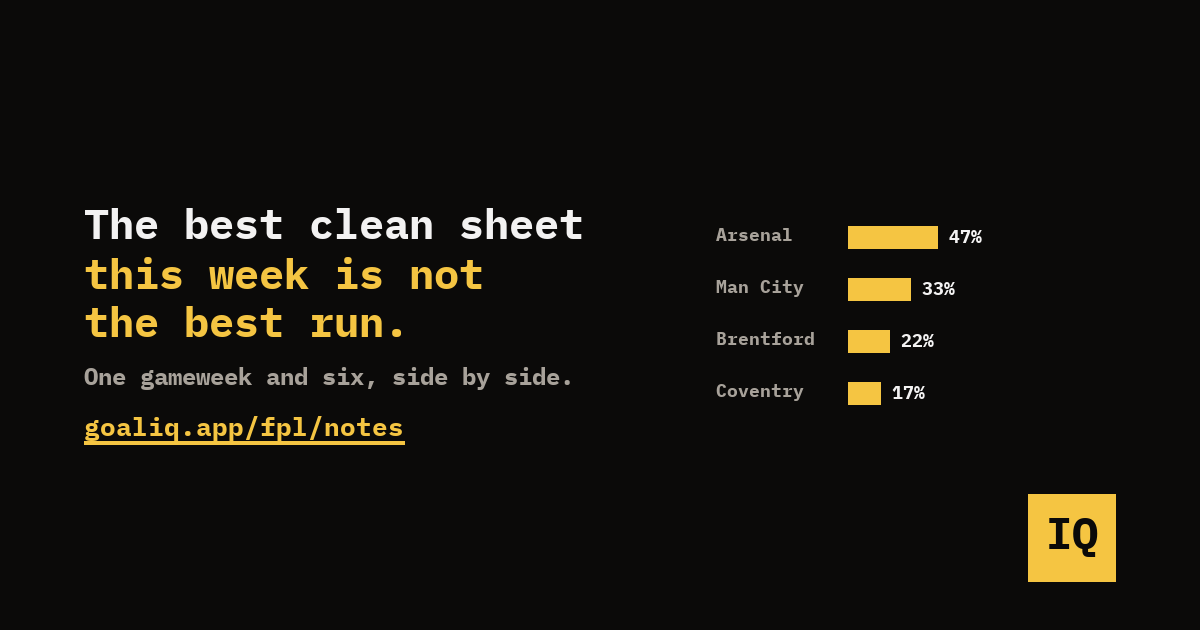
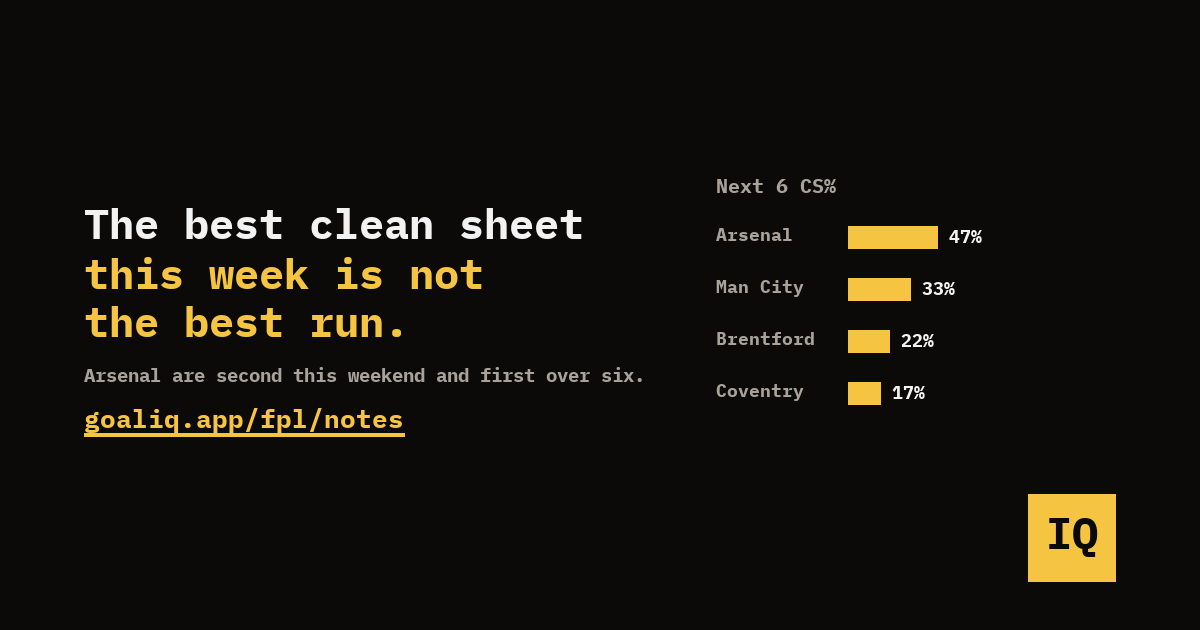
note: gate round 1 blocked two of my own factual errors (City's easiest fixture is Sunderland at home 48%, not Coventry; the lowest number on the page is Ipswich 2%, not Coventry 4%); gate wording applied, card says which column the bars are

Changed region(s): [[0.0617, 0.573, 0.5242, 0.7238], [0.5858, 0.2714, 0.7092, 0.3016]]

diff --git a/fpl/notes.html b/fpl/notes.html
@@ -10,7 +10,7 @@
 <meta property="og:title" content="FPL notes from the model | GoalIQ">
 <meta property="og:description" content="Short gameweek notes where every number comes from our own match model and every one of them is on a free page you can open. Latest: The best clean sheet this week is not the best run">
 <meta property="og:url" content="https://goaliq.app/fpl/notes">
-<meta property="og:image" content="https://goaliq.app/assets/brand/og/notes-1200x630.png?v=a92300a0">
+<meta property="og:image" content="https://goaliq.app/assets/brand/og/notes-1200x630.png?v=30393d27">
 <meta property="og:image:width" content="1200">
 <meta property="og:image:height" content="630">
 <meta property="og:site_name" content="GoalIQ">
@@ -18,7 +18,7 @@
 <meta name="twitter:site" content="@goaliqapp">
 <meta name="twitter:title" content="FPL notes from the model | GoalIQ">
 <meta name="twitter:description" content="Short gameweek notes where every number comes from our own match model and every one of them is on a free page you can open. Latest: The best clean sheet this week is not the best run">
-<meta name="twitter:image" content="https://goaliq.app/assets/brand/og/notes-1200x630.png?v=a92300a0">
+<meta name="twitter:image" content="https://goaliq.app/assets/brand/og/notes-1200x630.png?v=30393d27">
 <link rel="icon" href="/favicon.ico" sizes="any">
 <link rel="icon" type="image/png" sizes="32x32" href="/assets/brand/goaliq-favicon-32.png">
 <link rel="icon" type="image/png" sizes="48x48" href="/assets/brand/goaliq-favicon-48.png">
@@ -450,7 +450,7 @@ td .m-sub.is-caveat{display:block;font-size:11px;font-weight:400;opacity:.72;
 </div>
 </header>
 <main class="wrap content">
-<h2 id="the-best-clean-sheet-this-week-is-not-the-best-run"><a href="/fpl/note/the-best-clean-sheet-this-week-is-not-the-best-run">The best clean sheet this week is not the best run</a></h2><p class="note">2026-09-03</p><div class="note-body"><p>Gameweek 3 has a tidy top three for clean sheets. Manchester City are on 41.3% at home to Coventry, Arsenal 38.8% against Chelsea, Brentford 37.7% against Sunderland. If you are buying a defender for one weekend, that is the order.</p><p>There is a new column beside those numbers and it puts them in a different order. Averaged across the six gameweeks in the grid below, Arsenal are on 47%, the best run on the page. Brentford are on 22%. Same model, same defences, two questions that happen to have different answers.</p><p>City go from 41.3% this week to 33% across the run, and the row tells you why: Coventry at home is the friendliest fixture in their window, not a typical one. A single number was never going to say that.</p><div class="tblwrap"><table class="note-tbl"><thead><tr><th>Club</th><th>GW3 clean sheet</th><th>Next 6 average</th></tr></thead><tbody><tr><td>Arsenal</td><td>38.8%</td><td>47%</td></tr><tr><td>Man City</td><td>41.3%</td><td>33%</td></tr><tr><td>Brentford</td><td>37.7%</td><td>22%</td></tr><tr><td>Coventry</td><td>4%</td><td>17%</td></tr></tbody></table></div><p>Coventry are the mirror image. 4% away at City is the lowest figure on the page, and their run averages 17%. That is not a good six weeks by any measure. It is just not this one, and if you were writing them off on the strength of Saturday you were reading the wrong column.</p><p>One caveat we would rather say than have you find. Promoted sides carry a rating fitted on two Premier League matches so far, so their numbers move further with each result than anyone else&#x27;s, and the table marks those rows where they sit.</p></div><p><a href="https://goaliq.app/fpl">The clean sheet table, every club and both columns</a>.</p><div class="share"><span>Share</span><a href="https://twitter.com/intent/tweet?text=The%20best%20clean%20sheet%20this%20week%20is%20not%20the%20best%20run%0A%0Ahttps%3A//goaliq.app/fpl/notes%23the-best-clean-sheet-this-week-is-not-the-best-run" rel="noopener nofollow" target="_blank">X</a><a href="https://bsky.app/intent/compose?text=The%20best%20clean%20sheet%20this%20week%20is%20not%20the%20best%20run%0A%0Ahttps%3A//goaliq.app/fpl/notes%23the-best-clean-sheet-this-week-is-not-the-best-run" rel="noopener nofollow" target="_blank">Bluesky</a><a href="https://goaliq.app/fpl/notes#the-best-clean-sheet-this-week-is-not-the-best-run">Link</a></div><h2 id="arsenal-defence-price"><a href="/fpl/note/arsenal-defence-price">Everyone&#x27;s buying the Arsenal defence. Read the minutes column first.</a></h2><p class="note">2026-08-21</p><div class="note-body"><p>Everyone&#x27;s landed on the same read this week: Arsenal&#x27;s defence is the thing to own. Our board agrees on the player. Gabriel is the highest projected defender we have, 30.1 points over the next six gameweeks, at £8.0m and 29.7% owned.</p><p>The minutes column is the part I&#x27;d read twice. Gabriel projects at 83 minutes a game with an 84% chance of starting. Tarkowski is on 90 and 93%, Senesi on 89 and 98%, Kadıoğlu on 89 and 96%. Three defenders at £6.0m or under, every one of them likelier to play than the £8.0m man.</p><p>Tarkowski projects 27.5 over the same six gameweeks, so the whole premium is 2.6 points for £2.0m, and you can do that subtraction on the page yourself. If your squad has the money spare, the model won&#x27;t argue with Gabriel. The question is what the £2.0m funds instead at the top of the midfield table.</p><p>If the plan is Arsenal clean sheets on a budget, our numbers say no. Hincapie is the only other Arsenal defender who makes the top-100 page at all, at a 63% start chance and 58 expected minutes. That&#x27;s rotation, and a cheap clean sheet punt doesn&#x27;t survive rotation.</p><p>A lot of this week&#x27;s case cites Sunday at Wembley. Our model never saw that match. The Community Shield isn&#x27;t a league fixture, so it sits outside the data the model is fitted on, and it didn&#x27;t move a single number above.</p><p>One caveat we&#x27;d rather say than have you find: expected minutes are built from last season&#x27;s starts, so they&#x27;re slower than the transfer market. Where that matters, the page flags the row.</p></div><p><a href="https://goaliq.app/fpl/expected-points">Every number here, free, no sign-in</a>.</p><div class="share"><span>Share</span><a href="https://twitter.com/intent/tweet?text=Everyone%27s%20buying%20the%20Arsenal%20defence.%20Read%20the%20minutes%20column%20first.%0A%0Ahttps%3A//goaliq.app/fpl/notes%23arsenal-defence-price" rel="noopener nofollow" target="_blank">X</a><a href="https://bsky.app/intent/compose?text=Everyone%27s%20buying%20the%20Arsenal%20defence.%20Read%20the%20minutes%20column%20first.%0A%0Ahttps%3A//goaliq.app/fpl/notes%23arsenal-defence-price" rel="noopener nofollow" target="_blank">Bluesky</a><a href="https://goaliq.app/fpl/notes#arsenal-defence-price">Link</a></div><h2 id="we-measured-our-own-worst-column"><a href="/fpl/note/we-measured-our-own-worst-column">We measured our own worst column</a></h2><p class="note">2026-08-19</p><div class="note-body"><p>Every projection we publish rests on a guess about how long someone will be on the pitch. Before this season started we went back and checked how good that guess has been.</p><p>Take the prior built from 2024/25, use it to predict the first six gameweeks of 2025/26, compare it to what happened. 415 players had enough history to qualify. Mean absolute error: 21 minutes. That&#x27;s a fifth of a match, per player, per game, and it sits underneath every expected points total we publish. We ran the same test on the two summers before that and got 20.9 and 21.2, so it isn&#x27;t one bad year.</p><h3>Where the error isn&#x27;t</h3><p>We went in assuming we hand out minutes too freely across the board. That&#x27;s not what the split says.</p><p>For the 303 players who actually got on the pitch in those six gameweeks we sit 1.8 minutes under on average, though the miss itself is still 21.8 minutes. The entire positive bias comes from 112 players who never appeared at all. We gave them an average of 20.7 minutes each. They played none.</p><p>The column can&#x27;t see one thing, and it&#x27;s the thing you most want to know in August: is this player in the team at all? Once someone is in the team we&#x27;re close. Deciding whether he is belongs to a manager, and we don&#x27;t have one.</p><p>That blindness is worst exactly where you&#x27;d use it. Narrow to the 124 players the prior expected to start, 60 minutes or more, and the error is 25 minutes with a 16 minute overshoot. Even the 111 of those who did play came in 9.4 minutes under our estimate. Across all three summers that starter overshoot runs between 5.4 and 9.4 minutes. The caveat on our expected points page is the short version of this, measured at 80+ minutes rather than 60+, which is where the 10 minutes quoted there comes from.</p><p>So treat our expected minutes as a good estimate for players you already believe are starting, and as close to no information for players you&#x27;re unsure about.</p><h3>We already checked the decay constant</h3><p>The obvious response is that we weight last season too heavily or not heavily enough. We tested nine settings from very sharp to no decay at all. The best scores 21.332, we run 21.457, and the flat weighting everyone starts with is 22.291. A tenth of a minute between us and the best available.</p><p>Twenty one minutes is what this method costs. Moving the dial doesn&#x27;t buy it back, so we&#x27;d rather say so than imply precision the number doesn&#x27;t have.</p><h3>Where these numbers come from</h3><p>Every number above is on goaliq.app/fpl/minutes-accuracy, with the three summer version and the whole decay range next to it. Both ends are FPL&#x27;s own published data, and the page says what the prior is and who qualified, so the method is there if you want to argue with it. The figures here are the prior on its own, before the squad constraint pass; the page carries both.</p><p>It&#x27;s the weakest number we produce. If you cut the same six gameweeks yourself and get something else, we want to hear it.</p></div><p><a href="https://goaliq.app/fpl/minutes-accuracy">The full measurement, every group and every setting</a>.</p><div class="share"><span>Share</span><a href="https://twitter.com/intent/tweet?text=We%20measured%20our%20own%20worst%20column%0A%0Ahttps%3A//goaliq.app/fpl/notes%23we-measured-our-own-worst-column" rel="noopener nofollow" target="_blank">X</a><a href="https://bsky.app/intent/compose?text=We%20measured%20our%20own%20worst%20column%0A%0Ahttps%3A//goaliq.app/fpl/notes%23we-measured-our-own-worst-column" rel="noopener nofollow" target="_blank">Bluesky</a><a href="https://goaliq.app/fpl/notes#we-measured-our-own-worst-column">Link</a></div><h2 id="set-piece-xg-is-not-open-play-xg"><a href="/fpl/note/set-piece-xg-is-not-open-play-xg">The DEF column hides two different jobs</a></h2><p class="note">2026-08-15</p><div class="note-body"><p>Everyone knows a centre-back&#x27;s goals come from corners. That part isn&#x27;t interesting. What I didn&#x27;t expect is that the share is sharp enough to tell you which defenders are centre-backs in the first place.</p><p>Take the 23 defenders with at least 2.0 non-penalty xG. Ten are above 80% set pieces, six are below 50%, and the split is the one FPL doesn&#x27;t draw for you. The ten are centre-backs. The six are full-backs and wing-backs. Nobody at all sits between 40% and 51%.</p><p>The neighbouring column says the same thing. Those ten centre-backs took between 8 and 26 headed shots last season. Five of the six full-backs took seven or fewer.</p><p>The one that breaks the pattern is also the one worth knowing. O&#x27;Reilly has the highest non-penalty xG of any defender in the league, 6.73, and only 22% of it is set pieces. The best attacking defender in the DEF column is on the wrong side of the stereotype.</p><h3>The set-piece end</h3><div class="tblwrap"><table class="note-tbl"><thead><tr><th>Player</th><th>npxG</th><th>Set-piece xG</th><th>Share</th></tr></thead><tbody><tr><td>Gabriel</td><td>4.65</td><td>4.50</td><td>97%</td></tr><tr><td>Lacroix</td><td>3.01</td><td>2.86</td><td>95%</td></tr><tr><td>Thiaw</td><td>5.90</td><td>5.38</td><td>91%</td></tr><tr><td>Tarkowski</td><td>2.87</td><td>2.61</td><td>91%</td></tr><tr><td>Van de Ven</td><td>2.45</td><td>2.17</td><td>89%</td></tr><tr><td>Struijk</td><td>2.97</td><td>2.62</td><td>88%</td></tr></tbody></table></div><h3>The open-play end</h3><div class="tblwrap"><table class="note-tbl"><thead><tr><th>Player</th><th>npxG</th><th>Set-piece xG</th><th>Share</th></tr></thead><tbody><tr><td>Dalot</td><td>2.19</td><td>0.87</td><td>40%</td></tr><tr><td>O&#x27;Reilly</td><td>6.73</td><td>1.45</td><td>22%</td></tr><tr><td>Muñoz</td><td>3.15</td><td>0.61</td><td>19%</td></tr><tr><td>Hume</td><td>2.71</td><td>0.31</td><td>11%</td></tr><tr><td>Sessegnon</td><td>2.05</td><td>0.11</td><td>5%</td></tr></tbody></table></div><h3>Why it matters</h3><p>xG gets treated as one currency. You compare two players, the higher number wins, and for most of the league that&#x27;s fine. Haaland&#x27;s non-penalty xG is 10% set pieces. Mbeumo&#x27;s is 2%.</p><p>For the defenders at the top of that first table the number comes from somewhere else. It depends on how many set pieces the team wins and on who is delivering them. Neither of those moves with the things that normally move a team&#x27;s attack.</p><p>Take a club that sells its main striker. Open-play creation drops and the rating should drop with it. But the number of set pieces barely changes, and the centre-back who scores off them keeps scoring as long as the delivery is still there.</p><h3>How I&#x27;d use it</h3><p>If you&#x27;re comparing two defenders on xG, look at what the xG is made of before you trust the gap. A 3.0 that&#x27;s 90% set pieces and a 3.0 that&#x27;s 30% set pieces are different bets, and the second one is closer to a normal attacking return.</p><p>And if a club changes who takes its corners, that&#x27;s the transfer that should worry you about a set-piece defender, more than the striker leaving. The same view on the stats page lists the corner and free-kick taker order, so you can check who is on them now. I don&#x27;t have a clean number for how much delivery quality matters, and I&#x27;d rather say that than invent one.</p><h3>What this doesn&#x27;t show</h3><p>The shot data is 2025/26, not the season about to start, and some of the shares sit on thin samples. Van de Ven&#x27;s 89% comes off 2.45 npxG, about two goals&#x27; worth of chances, and I wouldn&#x27;t lean on it the way I&#x27;d lean on Gabriel&#x27;s 4.65.</p><p>Set piece here means corners and free kicks, not corners alone, and the column doesn&#x27;t split them. The centre-back and full-back labels are mine, not a column in the data.</p><p>Both columns are on our free stats page, no sign-in, but they sit in different views. Easiest route: type the name into &quot;Search player&quot;, then switch between &quot;Goal threat&quot; for npxG and headed shots and &quot;Set pieces&quot; for Set-piece xG. If you want to sort the whole list instead, press &quot;Show all players&quot; first, because the table opens on the top 100 and several of the names above sit outside it on npxG. Basis is 2025/26, 400 players in this season&#x27;s FPL squads.</p><p>goaliq.app/fpl/stats</p></div><p><a href="https://goaliq.app/fpl/stats">Open the stats page and check any of these</a>.</p><div class="share"><span>Share</span><a href="https://twitter.com/intent/tweet?text=The%20DEF%20column%20hides%20two%20different%20jobs%0A%0Ahttps%3A//goaliq.app/fpl/notes%23set-piece-xg-is-not-open-play-xg" rel="noopener nofollow" target="_blank">X</a><a href="https://bsky.app/intent/compose?text=The%20DEF%20column%20hides%20two%20different%20jobs%0A%0Ahttps%3A//goaliq.app/fpl/notes%23set-piece-xg-is-not-open-play-xg" rel="noopener nofollow" target="_blank">Bluesky</a><a href="https://goaliq.app/fpl/notes#set-piece-xg-is-not-open-play-xg">Link</a></div><h2 id="gw1-team-news-75-percent-flag"><a href="/fpl/note/gw1-team-news-75-percent-flag">GW1 team news: a 75% flag is not a sell signal</a></h2><p class="note">2026-08-15</p><div class="note-body"><p>61 players are ruled out for the GW1 deadline and 15 are doubtful. Only two of the doubtful are owned by more than 1%, so most of that list isn&#x27;t your problem.</p><p>Mukiele is the one I&#x27;d look at. FPL has him 75% to play, 4.3% own him, and he&#x27;s still the best six-gameweek projection on the entire doubtful list at 17.0, with the 75% already taken out of the number. The flag costs him less than the panic around it does.</p><p>Šeško is the other one over 1%. Same 75%, 2.1% owned, 11.3.</p><p>Kroupi is the most owned player who can&#x27;t play at all, and Bournemouth&#x27;s cover for him is Tavernier on 26.1. I&#x27;d move him and stop reading about it.</p></div><p><a href="https://goaliq.app/fpl/team-news">Full list, free, no sign-in</a>.</p><div class="share"><span>Share</span><a href="https://twitter.com/intent/tweet?text=GW1%20team%20news%3A%20a%2075%25%20flag%20is%20not%20a%20sell%20signal%0A%0Ahttps%3A//goaliq.app/fpl/notes%23gw1-team-news-75-percent-flag" rel="noopener nofollow" target="_blank">X</a><a href="https://bsky.app/intent/compose?text=GW1%20team%20news%3A%20a%2075%25%20flag%20is%20not%20a%20sell%20signal%0A%0Ahttps%3A//goaliq.app/fpl/notes%23gw1-team-news-75-percent-flag" rel="noopener nofollow" target="_blank">Bluesky</a><a href="https://goaliq.app/fpl/notes#gw1-team-news-75-percent-flag">Link</a></div><div class="rec">Powered by the GoalIQ match model with a published, pre-match-logged track record. The full toolkit (captain ranker, all differentials, transfer planner) is <a href="https://pro.goaliq.app/?tab=premium">GoalIQ Premium</a>: 3.99 €/month or 25 €/season. One subscription on web, iOS and Android.</div><div class="cta-row"><a class="btn" href="https://pro.goaliq.app/?tab=premium">Open GoalIQ Premium</a><a class="btn ghost" href="/fpl">Free clean-sheet probability &amp; FDR</a></div><p class="note">Updated 03 Sep 2026 · GoalIQ model predictions are statistical estimates for fun and analysis, not betting advice, and not a gambling service.</p>
+<h2 id="the-best-clean-sheet-this-week-is-not-the-best-run"><a href="/fpl/note/the-best-clean-sheet-this-week-is-not-the-best-run">The best clean sheet this week is not the best run</a></h2><p class="note">2026-09-03</p><div class="note-body"><p>Man City have the best clean sheet chance in Gameweek 3, 41.3% at home to Coventry. Arsenal are 38.8% against Chelsea, Brentford 37.7% against Sunderland. If you&#x27;re buying a defender for one weekend, that&#x27;s the order.</p><p>There&#x27;s a new column next to those numbers, Next 6 CS%, and it doesn&#x27;t agree. It averages the same probability over the six fixtures in the grid below. Arsenal come out at 47%, the best run on the page. City 33%, Brentford 22%.</p><p>City&#x27;s 33% hides a wide swing. United away in GW4 is 18%, Sunderland at home in GW5 is 48%, which is higher than this weekend. I posted on Wednesday that City&#x27;s 41% was really about the Coventry fixture. The full run says Coventry at home isn&#x27;t even their best one.</p><div class="tblwrap"><table class="note-tbl"><thead><tr><th>Club</th><th>GW3 clean sheet</th><th>Next 6 CS%</th></tr></thead><tbody><tr><td>Arsenal</td><td>38.8%</td><td>47%</td></tr><tr><td>Man City</td><td>41.3%</td><td>33%</td></tr><tr><td>Brentford</td><td>37.7%</td><td>22%</td></tr><tr><td>Coventry</td><td>4%</td><td>17%</td></tr></tbody></table></div><p>Coventry&#x27;s 4% at City is the lowest clean sheet number in Gameweek 3, and their next six still average 17%, ahead of Hull and Ipswich. One caveat we&#x27;d rather say than have you find: Coventry, Hull and Ipswich came up this summer, so their ratings rest on two Premier League matches and move a lot with each result. The table marks those rows.</p></div><p><a href="https://goaliq.app/fpl">The clean sheet table, every club and both columns</a>.</p><div class="share"><span>Share</span><a href="https://twitter.com/intent/tweet?text=The%20best%20clean%20sheet%20this%20week%20is%20not%20the%20best%20run%0A%0Ahttps%3A//goaliq.app/fpl/notes%23the-best-clean-sheet-this-week-is-not-the-best-run" rel="noopener nofollow" target="_blank">X</a><a href="https://bsky.app/intent/compose?text=The%20best%20clean%20sheet%20this%20week%20is%20not%20the%20best%20run%0A%0Ahttps%3A//goaliq.app/fpl/notes%23the-best-clean-sheet-this-week-is-not-the-best-run" rel="noopener nofollow" target="_blank">Bluesky</a><a href="https://goaliq.app/fpl/notes#the-best-clean-sheet-this-week-is-not-the-best-run">Link</a></div><h2 id="arsenal-defence-price"><a href="/fpl/note/arsenal-defence-price">Everyone&#x27;s buying the Arsenal defence. Read the minutes column first.</a></h2><p class="note">2026-08-21</p><div class="note-body"><p>Everyone&#x27;s landed on the same read this week: Arsenal&#x27;s defence is the thing to own. Our board agrees on the player. Gabriel is the highest projected defender we have, 30.1 points over the next six gameweeks, at £8.0m and 29.7% owned.</p><p>The minutes column is the part I&#x27;d read twice. Gabriel projects at 83 minutes a game with an 84% chance of starting. Tarkowski is on 90 and 93%, Senesi on 89 and 98%, Kadıoğlu on 89 and 96%. Three defenders at £6.0m or under, every one of them likelier to play than the £8.0m man.</p><p>Tarkowski projects 27.5 over the same six gameweeks, so the whole premium is 2.6 points for £2.0m, and you can do that subtraction on the page yourself. If your squad has the money spare, the model won&#x27;t argue with Gabriel. The question is what the £2.0m funds instead at the top of the midfield table.</p><p>If the plan is Arsenal clean sheets on a budget, our numbers say no. Hincapie is the only other Arsenal defender who makes the top-100 page at all, at a 63% start chance and 58 expected minutes. That&#x27;s rotation, and a cheap clean sheet punt doesn&#x27;t survive rotation.</p><p>A lot of this week&#x27;s case cites Sunday at Wembley. Our model never saw that match. The Community Shield isn&#x27;t a league fixture, so it sits outside the data the model is fitted on, and it didn&#x27;t move a single number above.</p><p>One caveat we&#x27;d rather say than have you find: expected minutes are built from last season&#x27;s starts, so they&#x27;re slower than the transfer market. Where that matters, the page flags the row.</p></div><p><a href="https://goaliq.app/fpl/expected-points">Every number here, free, no sign-in</a>.</p><div class="share"><span>Share</span><a href="https://twitter.com/intent/tweet?text=Everyone%27s%20buying%20the%20Arsenal%20defence.%20Read%20the%20minutes%20column%20first.%0A%0Ahttps%3A//goaliq.app/fpl/notes%23arsenal-defence-price" rel="noopener nofollow" target="_blank">X</a><a href="https://bsky.app/intent/compose?text=Everyone%27s%20buying%20the%20Arsenal%20defence.%20Read%20the%20minutes%20column%20first.%0A%0Ahttps%3A//goaliq.app/fpl/notes%23arsenal-defence-price" rel="noopener nofollow" target="_blank">Bluesky</a><a href="https://goaliq.app/fpl/notes#arsenal-defence-price">Link</a></div><h2 id="we-measured-our-own-worst-column"><a href="/fpl/note/we-measured-our-own-worst-column">We measured our own worst column</a></h2><p class="note">2026-08-19</p><div class="note-body"><p>Every projection we publish rests on a guess about how long someone will be on the pitch. Before this season started we went back and checked how good that guess has been.</p><p>Take the prior built from 2024/25, use it to predict the first six gameweeks of 2025/26, compare it to what happened. 415 players had enough history to qualify. Mean absolute error: 21 minutes. That&#x27;s a fifth of a match, per player, per game, and it sits underneath every expected points total we publish. We ran the same test on the two summers before that and got 20.9 and 21.2, so it isn&#x27;t one bad year.</p><h3>Where the error isn&#x27;t</h3><p>We went in assuming we hand out minutes too freely across the board. That&#x27;s not what the split says.</p><p>For the 303 players who actually got on the pitch in those six gameweeks we sit 1.8 minutes under on average, though the miss itself is still 21.8 minutes. The entire positive bias comes from 112 players who never appeared at all. We gave them an average of 20.7 minutes each. They played none.</p><p>The column can&#x27;t see one thing, and it&#x27;s the thing you most want to know in August: is this player in the team at all? Once someone is in the team we&#x27;re close. Deciding whether he is belongs to a manager, and we don&#x27;t have one.</p><p>That blindness is worst exactly where you&#x27;d use it. Narrow to the 124 players the prior expected to start, 60 minutes or more, and the error is 25 minutes with a 16 minute overshoot. Even the 111 of those who did play came in 9.4 minutes under our estimate. Across all three summers that starter overshoot runs between 5.4 and 9.4 minutes. The caveat on our expected points page is the short version of this, measured at 80+ minutes rather than 60+, which is where the 10 minutes quoted there comes from.</p><p>So treat our expected minutes as a good estimate for players you already believe are starting, and as close to no information for players you&#x27;re unsure about.</p><h3>We already checked the decay constant</h3><p>The obvious response is that we weight last season too heavily or not heavily enough. We tested nine settings from very sharp to no decay at all. The best scores 21.332, we run 21.457, and the flat weighting everyone starts with is 22.291. A tenth of a minute between us and the best available.</p><p>Twenty one minutes is what this method costs. Moving the dial doesn&#x27;t buy it back, so we&#x27;d rather say so than imply precision the number doesn&#x27;t have.</p><h3>Where these numbers come from</h3><p>Every number above is on goaliq.app/fpl/minutes-accuracy, with the three summer version and the whole decay range next to it. Both ends are FPL&#x27;s own published data, and the page says what the prior is and who qualified, so the method is there if you want to argue with it. The figures here are the prior on its own, before the squad constraint pass; the page carries both.</p><p>It&#x27;s the weakest number we produce. If you cut the same six gameweeks yourself and get something else, we want to hear it.</p></div><p><a href="https://goaliq.app/fpl/minutes-accuracy">The full measurement, every group and every setting</a>.</p><div class="share"><span>Share</span><a href="https://twitter.com/intent/tweet?text=We%20measured%20our%20own%20worst%20column%0A%0Ahttps%3A//goaliq.app/fpl/notes%23we-measured-our-own-worst-column" rel="noopener nofollow" target="_blank">X</a><a href="https://bsky.app/intent/compose?text=We%20measured%20our%20own%20worst%20column%0A%0Ahttps%3A//goaliq.app/fpl/notes%23we-measured-our-own-worst-column" rel="noopener nofollow" target="_blank">Bluesky</a><a href="https://goaliq.app/fpl/notes#we-measured-our-own-worst-column">Link</a></div><h2 id="set-piece-xg-is-not-open-play-xg"><a href="/fpl/note/set-piece-xg-is-not-open-play-xg">The DEF column hides two different jobs</a></h2><p class="note">2026-08-15</p><div class="note-body"><p>Everyone knows a centre-back&#x27;s goals come from corners. That part isn&#x27;t interesting. What I didn&#x27;t expect is that the share is sharp enough to tell you which defenders are centre-backs in the first place.</p><p>Take the 23 defenders with at least 2.0 non-penalty xG. Ten are above 80% set pieces, six are below 50%, and the split is the one FPL doesn&#x27;t draw for you. The ten are centre-backs. The six are full-backs and wing-backs. Nobody at all sits between 40% and 51%.</p><p>The neighbouring column says the same thing. Those ten centre-backs took between 8 and 26 headed shots last season. Five of the six full-backs took seven or fewer.</p><p>The one that breaks the pattern is also the one worth knowing. O&#x27;Reilly has the highest non-penalty xG of any defender in the league, 6.73, and only 22% of it is set pieces. The best attacking defender in the DEF column is on the wrong side of the stereotype.</p><h3>The set-piece end</h3><div class="tblwrap"><table class="note-tbl"><thead><tr><th>Player</th><th>npxG</th><th>Set-piece xG</th><th>Share</th></tr></thead><tbody><tr><td>Gabriel</td><td>4.65</td><td>4.50</td><td>97%</td></tr><tr><td>Lacroix</td><td>3.01</td><td>2.86</td><td>95%</td></tr><tr><td>Thiaw</td><td>5.90</td><td>5.38</td><td>91%</td></tr><tr><td>Tarkowski</td><td>2.87</td><td>2.61</td><td>91%</td></tr><tr><td>Van de Ven</td><td>2.45</td><td>2.17</td><td>89%</td></tr><tr><td>Struijk</td><td>2.97</td><td>2.62</td><td>88%</td></tr></tbody></table></div><h3>The open-play end</h3><div class="tblwrap"><table class="note-tbl"><thead><tr><th>Player</th><th>npxG</th><th>Set-piece xG</th><th>Share</th></tr></thead><tbody><tr><td>Dalot</td><td>2.19</td><td>0.87</td><td>40%</td></tr><tr><td>O&#x27;Reilly</td><td>6.73</td><td>1.45</td><td>22%</td></tr><tr><td>Muñoz</td><td>3.15</td><td>0.61</td><td>19%</td></tr><tr><td>Hume</td><td>2.71</td><td>0.31</td><td>11%</td></tr><tr><td>Sessegnon</td><td>2.05</td><td>0.11</td><td>5%</td></tr></tbody></table></div><h3>Why it matters</h3><p>xG gets treated as one currency. You compare two players, the higher number wins, and for most of the league that&#x27;s fine. Haaland&#x27;s non-penalty xG is 10% set pieces. Mbeumo&#x27;s is 2%.</p><p>For the defenders at the top of that first table the number comes from somewhere else. It depends on how many set pieces the team wins and on who is delivering them. Neither of those moves with the things that normally move a team&#x27;s attack.</p><p>Take a club that sells its main striker. Open-play creation drops and the rating should drop with it. But the number of set pieces barely changes, and the centre-back who scores off them keeps scoring as long as the delivery is still there.</p><h3>How I&#x27;d use it</h3><p>If you&#x27;re comparing two defenders on xG, look at what the xG is made of before you trust the gap. A 3.0 that&#x27;s 90% set pieces and a 3.0 that&#x27;s 30% set pieces are different bets, and the second one is closer to a normal attacking return.</p><p>And if a club changes who takes its corners, that&#x27;s the transfer that should worry you about a set-piece defender, more than the striker leaving. The same view on the stats page lists the corner and free-kick taker order, so you can check who is on them now. I don&#x27;t have a clean number for how much delivery quality matters, and I&#x27;d rather say that than invent one.</p><h3>What this doesn&#x27;t show</h3><p>The shot data is 2025/26, not the season about to start, and some of the shares sit on thin samples. Van de Ven&#x27;s 89% comes off 2.45 npxG, about two goals&#x27; worth of chances, and I wouldn&#x27;t lean on it the way I&#x27;d lean on Gabriel&#x27;s 4.65.</p><p>Set piece here means corners and free kicks, not corners alone, and the column doesn&#x27;t split them. The centre-back and full-back labels are mine, not a column in the data.</p><p>Both columns are on our free stats page, no sign-in, but they sit in different views. Easiest route: type the name into &quot;Search player&quot;, then switch between &quot;Goal threat&quot; for npxG and headed shots and &quot;Set pieces&quot; for Set-piece xG. If you want to sort the whole list instead, press &quot;Show all players&quot; first, because the table opens on the top 100 and several of the names above sit outside it on npxG. Basis is 2025/26, 400 players in this season&#x27;s FPL squads.</p><p>goaliq.app/fpl/stats</p></div><p><a href="https://goaliq.app/fpl/stats">Open the stats page and check any of these</a>.</p><div class="share"><span>Share</span><a href="https://twitter.com/intent/tweet?text=The%20DEF%20column%20hides%20two%20different%20jobs%0A%0Ahttps%3A//goaliq.app/fpl/notes%23set-piece-xg-is-not-open-play-xg" rel="noopener nofollow" target="_blank">X</a><a href="https://bsky.app/intent/compose?text=The%20DEF%20column%20hides%20two%20different%20jobs%0A%0Ahttps%3A//goaliq.app/fpl/notes%23set-piece-xg-is-not-open-play-xg" rel="noopener nofollow" target="_blank">Bluesky</a><a href="https://goaliq.app/fpl/notes#set-piece-xg-is-not-open-play-xg">Link</a></div><h2 id="gw1-team-news-75-percent-flag"><a href="/fpl/note/gw1-team-news-75-percent-flag">GW1 team news: a 75% flag is not a sell signal</a></h2><p class="note">2026-08-15</p><div class="note-body"><p>61 players are ruled out for the GW1 deadline and 15 are doubtful. Only two of the doubtful are owned by more than 1%, so most of that list isn&#x27;t your problem.</p><p>Mukiele is the one I&#x27;d look at. FPL has him 75% to play, 4.3% own him, and he&#x27;s still the best six-gameweek projection on the entire doubtful list at 17.0, with the 75% already taken out of the number. The flag costs him less than the panic around it does.</p><p>Šeško is the other one over 1%. Same 75%, 2.1% owned, 11.3.</p><p>Kroupi is the most owned player who can&#x27;t play at all, and Bournemouth&#x27;s cover for him is Tavernier on 26.1. I&#x27;d move him and stop reading about it.</p></div><p><a href="https://goaliq.app/fpl/team-news">Full list, free, no sign-in</a>.</p><div class="share"><span>Share</span><a href="https://twitter.com/intent/tweet?text=GW1%20team%20news%3A%20a%2075%25%20flag%20is%20not%20a%20sell%20signal%0A%0Ahttps%3A//goaliq.app/fpl/notes%23gw1-team-news-75-percent-flag" rel="noopener nofollow" target="_blank">X</a><a href="https://bsky.app/intent/compose?text=GW1%20team%20news%3A%20a%2075%25%20flag%20is%20not%20a%20sell%20signal%0A%0Ahttps%3A//goaliq.app/fpl/notes%23gw1-team-news-75-percent-flag" rel="noopener nofollow" target="_blank">Bluesky</a><a href="https://goaliq.app/fpl/notes#gw1-team-news-75-percent-flag">Link</a></div><div class="rec">Powered by the GoalIQ match model with a published, pre-match-logged track record. The full toolkit (captain ranker, all differentials, transfer planner) is <a href="https://pro.goaliq.app/?tab=premium">GoalIQ Premium</a>: 3.99 €/month or 25 €/season. One subscription on web, iOS and Android.</div><div class="cta-row"><a class="btn" href="https://pro.goaliq.app/?tab=premium">Open GoalIQ Premium</a><a class="btn ghost" href="/fpl">Free clean-sheet probability &amp; FDR</a></div><p class="note">Updated 03 Sep 2026 · GoalIQ model predictions are statistical estimates for fun and analysis, not betting advice, and not a gambling service.</p>
 <nav class="toolnav" aria-label="More free FPL tools"><span class="navgrp"><b>Picks</b><a href="/fpl/best-captain">Captain picks</a><a href="/fpl/model-xi">Model XI</a><a href="/fpl/differentials">Differentials</a><a href="/fpl/expected-points">Expected points</a></span><span class="navgrp"><b>Teams</b><a href="/fpl/club-best">Best per club</a><a href="/fpl/defence">Defence profiles</a><a href="/fpl/team-news">Team news</a><a href="/fpl/predicted-lineups">Predicted XI</a></span><span class="navgrp"><b>Numbers</b><a href="/fpl/points">Points vs projection</a><a href="/fpl/stats">Player stats</a><a href="/fpl/xg-leaders">xG leaders</a><a href="/fpl/defcon">DefCon leaders</a><a href="/fpl/price-changes">Price changes</a></span><span class="navgrp"><b>Reading</b><a href="/fpl/minutes-accuracy">Minutes accuracy</a></span></nav>
 <footer>© 2026 GoalIQ · <a href="/predictions">Football predictions</a> · <a href="/fpl">Free FPL tools</a> · <a href="/privacy.html">Privacy</a><br>GoalIQ model predictions are statistical estimates for fun and analysis, not betting advice, and not a gambling service.</footer>
 </main>

diff --git a/fpl/note/the-best-clean-sheet-this-week-is-not-the-best-run.html b/fpl/note/the-best-clean-sheet-this-week-is-not-the-best-run.html
@@ -4,21 +4,21 @@
 <meta charset="UTF-8" />
 <meta name="viewport" content="width=device-width, initial-scale=1.0" />
 <title>The best clean sheet this week is not the best run | GoalIQ</title>
-<meta name="description" content="Gameweek 3 has a tidy top three for clean sheets. Manchester City are on 41.3% at home to Coventry, Arsenal 38.8% against Chelsea, Brentford 37.7% against Sunderland. If you are buying a defender for one weekend, that is the order." />
+<meta name="description" content="Man City have the best clean sheet chance in Gameweek 3, 41.3% at home to Coventry. Arsenal are 38.8% against Chelsea, Brentford 37.7% against Sunderland. If you&#x27;re buying a defender for one weekend, that&#x27;s the order." />
 <link rel="canonical" href="https://goaliq.app/fpl/note/the-best-clean-sheet-this-week-is-not-the-best-run" />
 <meta property="og:type" content="article">
 <meta property="og:title" content="The best clean sheet this week is not the best run | GoalIQ">
-<meta property="og:description" content="Gameweek 3 has a tidy top three for clean sheets. Manchester City are on 41.3% at home to Coventry, Arsenal 38.8% against Chelsea, Brentford 37.7% against Sunderland. If you are buying a defender for one weekend, that is the order.">
+<meta property="og:description" content="Man City have the best clean sheet chance in Gameweek 3, 41.3% at home to Coventry. Arsenal are 38.8% against Chelsea, Brentford 37.7% against Sunderland. If you&#x27;re buying a defender for one weekend, that&#x27;s the order.">
 <meta property="og:url" content="https://goaliq.app/fpl/note/the-best-clean-sheet-this-week-is-not-the-best-run">
-<meta property="og:image" content="https://goaliq.app/assets/brand/og/the-best-clean-sheet-this-week-is-not-the-best-run-1200x630.png?v=a92300a0">
+<meta property="og:image" content="https://goaliq.app/assets/brand/og/the-best-clean-sheet-this-week-is-not-the-best-run-1200x630.png?v=30393d27">
 <meta property="og:image:width" content="1200">
 <meta property="og:image:height" content="630">
 <meta property="og:site_name" content="GoalIQ">
 <meta name="twitter:card" content="summary_large_image">
 <meta name="twitter:site" content="@goaliqapp">
 <meta name="twitter:title" content="The best clean sheet this week is not the best run | GoalIQ">
-<meta name="twitter:description" content="Gameweek 3 has a tidy top three for clean sheets. Manchester City are on 41.3% at home to Coventry, Arsenal 38.8% against Chelsea, Brentford 37.7% against Sunderland. If you are buying a defender for one weekend, that is the order.">
-<meta name="twitter:image" content="https://goaliq.app/assets/brand/og/the-best-clean-sheet-this-week-is-not-the-best-run-1200x630.png?v=a92300a0">
+<meta name="twitter:description" content="Man City have the best clean sheet chance in Gameweek 3, 41.3% at home to Coventry. Arsenal are 38.8% against Chelsea, Brentford 37.7% against Sunderland. If you&#x27;re buying a defender for one weekend, that&#x27;s the order.">
+<meta name="twitter:image" content="https://goaliq.app/assets/brand/og/the-best-clean-sheet-this-week-is-not-the-best-run-1200x630.png?v=30393d27">
 <link rel="icon" href="/favicon.ico" sizes="any">
 <link rel="icon" type="image/png" sizes="32x32" href="/assets/brand/goaliq-favicon-32.png">
 <link rel="icon" type="image/png" sizes="48x48" href="/assets/brand/goaliq-favicon-48.png">
@@ -215,7 +215,7 @@ table.lb thead th[data-dir="desc"]:after{content:" \2193";opacity:1;}
  "@type": "Article",
  "headline": "The best clean sheet this week is not the best run",
  "url": "https://goaliq.app/fpl/note/the-best-clean-sheet-this-week-is-not-the-best-run",
- "description": "Gameweek 3 has a tidy top three for clean sheets. Manchester City are on 41.3% at home to Coventry, Arsenal 38.8% against Chelsea, Brentford 37.7% against Sunderland. If you are buying a defender for one weekend, that is the order.",
+ "description": "Man City have the best clean sheet chance in Gameweek 3, 41.3% at home to Coventry. Arsenal are 38.8% against Chelsea, Brentford 37.7% against Sunderland. If you're buying a defender for one weekend, that's the order.",
  "datePublished": "2026-09-03",
  "dateModified": "2026-09-03",
  "isPartOf": {
@@ -455,7 +455,7 @@ td .m-sub.is-caveat{display:block;font-size:11px;font-weight:400;opacity:.72;
 </div>
 </header>
 <main class="wrap content">
-<p class="note">2026-09-03</p><div class="note-body"><p>Gameweek 3 has a tidy top three for clean sheets. Manchester City are on 41.3% at home to Coventry, Arsenal 38.8% against Chelsea, Brentford 37.7% against Sunderland. If you are buying a defender for one weekend, that is the order.</p><p>There is a new column beside those numbers and it puts them in a different order. Averaged across the six gameweeks in the grid below, Arsenal are on 47%, the best run on the page. Brentford are on 22%. Same model, same defences, two questions that happen to have different answers.</p><p>City go from 41.3% this week to 33% across the run, and the row tells you why: Coventry at home is the friendliest fixture in their window, not a typical one. A single number was never going to say that.</p><div class="tblwrap"><table class="note-tbl"><thead><tr><th>Club</th><th>GW3 clean sheet</th><th>Next 6 average</th></tr></thead><tbody><tr><td>Arsenal</td><td>38.8%</td><td>47%</td></tr><tr><td>Man City</td><td>41.3%</td><td>33%</td></tr><tr><td>Brentford</td><td>37.7%</td><td>22%</td></tr><tr><td>Coventry</td><td>4%</td><td>17%</td></tr></tbody></table></div><p>Coventry are the mirror image. 4% away at City is the lowest figure on the page, and their run averages 17%. That is not a good six weeks by any measure. It is just not this one, and if you were writing them off on the strength of Saturday you were reading the wrong column.</p><p>One caveat we would rather say than have you find. Promoted sides carry a rating fitted on two Premier League matches so far, so their numbers move further with each result than anyone else&#x27;s, and the table marks those rows where they sit.</p></div><p><a href="https://goaliq.app/fpl">The clean sheet table, every club and both columns</a>.</p><div class="share"><span>Share</span><a href="https://twitter.com/intent/tweet?text=The%20best%20clean%20sheet%20this%20week%20is%20not%20the%20best%20run%0A%0Ahttps%3A//goaliq.app/fpl/note/the-best-clean-sheet-this-week-is-not-the-best-run" rel="noopener nofollow" target="_blank">X</a><a href="https://bsky.app/intent/compose?text=The%20best%20clean%20sheet%20this%20week%20is%20not%20the%20best%20run%0A%0Ahttps%3A//goaliq.app/fpl/note/the-best-clean-sheet-this-week-is-not-the-best-run" rel="noopener nofollow" target="_blank">Bluesky</a><a href="https://goaliq.app/fpl/note/the-best-clean-sheet-this-week-is-not-the-best-run">Link</a></div><p class="note-more"><a href="/fpl/notes">All notes from the model &#9656;</a></p><div class="rec">Powered by the GoalIQ match model with a published, pre-match-logged track record. The full toolkit (captain ranker, all differentials, transfer planner) is <a href="https://pro.goaliq.app/?tab=premium">GoalIQ Premium</a>: 3.99 €/month or 25 €/season. One subscription on web, iOS and Android.</div><div class="cta-row"><a class="btn" href="https://pro.goaliq.app/?tab=premium">Open GoalIQ Premium</a><a class="btn ghost" href="/fpl">Free clean-sheet probability &amp; FDR</a></div><p class="note">Updated 03 Sep 2026 · GoalIQ model predictions are statistical estimates for fun and analysis, not betting advice, and not a gambling service.</p>
+<p class="note">2026-09-03</p><div class="note-body"><p>Man City have the best clean sheet chance in Gameweek 3, 41.3% at home to Coventry. Arsenal are 38.8% against Chelsea, Brentford 37.7% against Sunderland. If you&#x27;re buying a defender for one weekend, that&#x27;s the order.</p><p>There&#x27;s a new column next to those numbers, Next 6 CS%, and it doesn&#x27;t agree. It averages the same probability over the six fixtures in the grid below. Arsenal come out at 47%, the best run on the page. City 33%, Brentford 22%.</p><p>City&#x27;s 33% hides a wide swing. United away in GW4 is 18%, Sunderland at home in GW5 is 48%, which is higher than this weekend. I posted on Wednesday that City&#x27;s 41% was really about the Coventry fixture. The full run says Coventry at home isn&#x27;t even their best one.</p><div class="tblwrap"><table class="note-tbl"><thead><tr><th>Club</th><th>GW3 clean sheet</th><th>Next 6 CS%</th></tr></thead><tbody><tr><td>Arsenal</td><td>38.8%</td><td>47%</td></tr><tr><td>Man City</td><td>41.3%</td><td>33%</td></tr><tr><td>Brentford</td><td>37.7%</td><td>22%</td></tr><tr><td>Coventry</td><td>4%</td><td>17%</td></tr></tbody></table></div><p>Coventry&#x27;s 4% at City is the lowest clean sheet number in Gameweek 3, and their next six still average 17%, ahead of Hull and Ipswich. One caveat we&#x27;d rather say than have you find: Coventry, Hull and Ipswich came up this summer, so their ratings rest on two Premier League matches and move a lot with each result. The table marks those rows.</p></div><p><a href="https://goaliq.app/fpl">The clean sheet table, every club and both columns</a>.</p><div class="share"><span>Share</span><a href="https://twitter.com/intent/tweet?text=The%20best%20clean%20sheet%20this%20week%20is%20not%20the%20best%20run%0A%0Ahttps%3A//goaliq.app/fpl/note/the-best-clean-sheet-this-week-is-not-the-best-run" rel="noopener nofollow" target="_blank">X</a><a href="https://bsky.app/intent/compose?text=The%20best%20clean%20sheet%20this%20week%20is%20not%20the%20best%20run%0A%0Ahttps%3A//goaliq.app/fpl/note/the-best-clean-sheet-this-week-is-not-the-best-run" rel="noopener nofollow" target="_blank">Bluesky</a><a href="https://goaliq.app/fpl/note/the-best-clean-sheet-this-week-is-not-the-best-run">Link</a></div><p class="note-more"><a href="/fpl/notes">All notes from the model &#9656;</a></p><div class="rec">Powered by the GoalIQ match model with a published, pre-match-logged track record. The full toolkit (captain ranker, all differentials, transfer planner) is <a href="https://pro.goaliq.app/?tab=premium">GoalIQ Premium</a>: 3.99 €/month or 25 €/season. One subscription on web, iOS and Android.</div><div class="cta-row"><a class="btn" href="https://pro.goaliq.app/?tab=premium">Open GoalIQ Premium</a><a class="btn ghost" href="/fpl">Free clean-sheet probability &amp; FDR</a></div><p class="note">Updated 03 Sep 2026 · GoalIQ model predictions are statistical estimates for fun and analysis, not betting advice, and not a gambling service.</p>
 <nav class="toolnav" aria-label="More free FPL tools"><span class="navgrp"><b>Picks</b><a href="/fpl/best-captain">Captain picks</a><a href="/fpl/model-xi">Model XI</a><a href="/fpl/differentials">Differentials</a><a href="/fpl/expected-points">Expected points</a></span><span class="navgrp"><b>Teams</b><a href="/fpl/club-best">Best per club</a><a href="/fpl/defence">Defence profiles</a><a href="/fpl/team-news">Team news</a><a href="/fpl/predicted-lineups">Predicted XI</a></span><span class="navgrp"><b>Numbers</b><a href="/fpl/points">Points vs projection</a><a href="/fpl/stats">Player stats</a><a href="/fpl/xg-leaders">xG leaders</a><a href="/fpl/defcon">DefCon leaders</a><a href="/fpl/price-changes">Price changes</a></span><span class="navgrp"><b>Reading</b><a href="/fpl/notes">Notes</a><a href="/fpl/minutes-accuracy">Minutes accuracy</a></span></nav>
 <footer>© 2026 GoalIQ · <a href="/predictions">Football predictions</a> · <a href="/fpl">Free FPL tools</a> · <a href="/privacy.html">Privacy</a><br>GoalIQ model predictions are statistical estimates for fun and analysis, not betting advice, and not a gambling service.</footer>
 </main>
